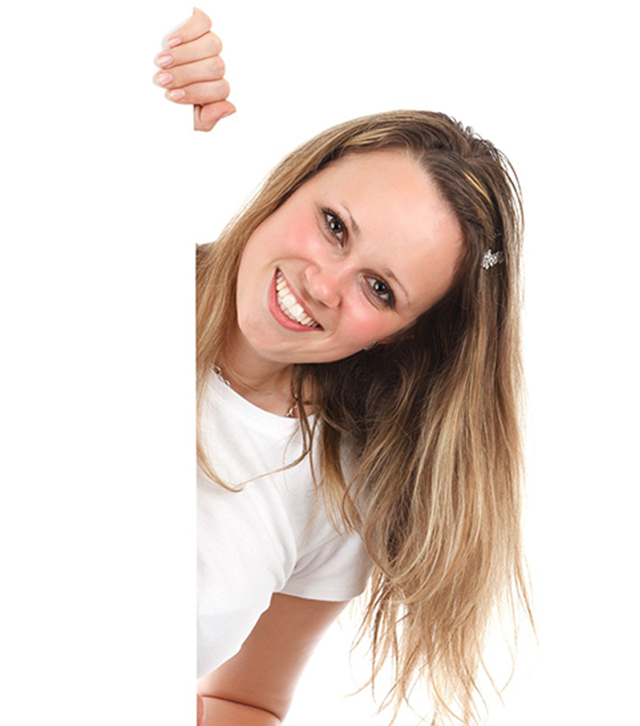
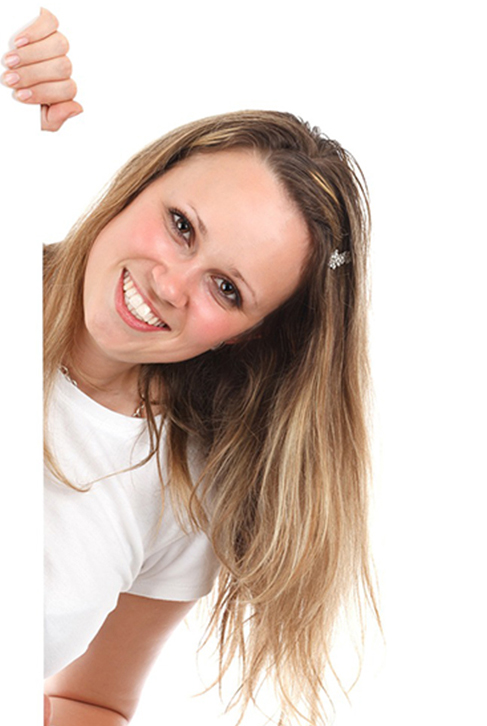
Doing About Page

diff --git a/about.html b/about.html
@@ -121,7 +121,7 @@
                     </div>
 
                     <div class="about-page-img">
-                        <img src="assets/img/about-img/2.jpg" alt="img">
+                        <img src="assets/img/about-img/1.jpg" alt="img">
                     </div>
 
                     <div class="col-12 col-sm-12 col-md-12 about-content-bottom position-relative">
@@ -141,7 +141,33 @@
                 <div class="row">
                     <div class="col-12 col-sm-12 col-md-12">
                         <div class="about-content-up">
-                            <h1>This is our story.</h1>
+                            <p>Lorem ipsum dolor sit amet, consectetur adipisicing elit. Assumenda, culpa dolore est facere inventore.</p>
+                            <p>Lorem ipsum dolor sit amet, consectetur adipisicing elit. Accusantium beatae, dolores explicabo fuga iste minima non odit omnis rem similique? Lorem ipsum dolor sit amet, consectetur adipisicing elit.</p>
+                            <p>Lorem ipsum dolor sit amet, consectetur adipisicing elit. Accusantium beatae, dolores explicabo fuga iste minima non odit omnis rem similique? Lorem ipsum dolor sit amet, consectetur adipisicing elit.</p>
+                        </div>
+                    </div>
+
+                    <div class="about-page-img">
+                        <img src="assets/img/about-img/3.jpg" alt="img">
+                    </div>
+
+                    <div class="col-12 col-sm-12 col-md-12 about-content-bottom position-relative">
+                        <div class="about-content-writer">
+                            <h6>Suraiya Aysha, Web Developer</h6>
+                            <p>consectetur adipisicing elit. Accusantium beatae, dolores explicabo fuga iste minima non odit omnis rem similique.</p>
+                        </div>
+                    </div>
+                </div>
+            </div>
+        </section>
+        <!-- About Story Content End-->
+
+        <!-- About Story Content Start-->
+        <section class="about-area">
+            <div class="container-fluid">
+                <div class="row">
+                    <div class="col-12 col-sm-12 col-md-12">
+                        <div class="about-content-up">
                             <p>Lorem ipsum dolor sit amet, consectetur adipisicing elit. Assumenda, culpa dolore est facere inventore laudantium quibusdam reiciendis rem reprehenderit sit.</p>
                             <p>Lorem ipsum dolor sit amet, consectetur adipisicing elit. Accusantium beatae, dolores explicabo fuga iste minima non odit omnis rem similique? Lorem ipsum dolor sit amet, consectetur adipisicing elit. Assumenda, culpa dolore est facere inventore laudantium quibusdam reiciendis rem reprehenderit sit.</p>
                         </div>
@@ -175,13 +201,14 @@
                     </div>
 
                     <div class="about-page-img">
-                        <img src="assets/img/about-img/2.jpg" alt="img">
+                        <img src="assets/img/about-img/5.jpg" alt="img">
                     </div>
 
                     <div class="col-12 col-sm-12 col-md-12 about-content-bottom position-relative">
                         <div class="about-content-writer">
-                            <h6>Suraiya Aysha, Web Developer</h6>
+                            <p>consectetur adipisicing elit. Accusantium beatae, dolores explicabo fuga iste minima non odit consectetur adipisicing elit. Accusantium beatae, dolores explicabo fuga iste minima non odit omnis rem similique.</p>
                             <p>consectetur adipisicing elit. Accusantium beatae, dolores explicabo fuga iste minima non odit omnis rem similique.</p>
+                            <p><a href="careers.html" class="btn theme-button">Join the team</a></p>
                         </div>
                     </div>
                 </div>

diff --git a/assets/css/style.css b/assets/css/style.css
@@ -1380,19 +1380,33 @@ ul.social-media li a {
     padding-bottom: 0;
 }
 .about-content-up, .about-content-bottom {
-    width: 50%;
+    width: 43%;
     margin: 0 auto;
 }
 .about-page-img img {
-    position: relative;
-    left: -230px;
-    bottom: 0;
+    /*position: relative;*/
+    /*bottom: 0;*/
+    z-index: -1;
+}
+.about-story-main .about-area:nth-child(2n+1) .about-page-img {
+    margin-right: auto;
+}
+.about-story-main .about-area:nth-child(2n) .about-page-img {
+    margin-left: auto;
+}
+.about-story-main .about-area:nth-child(2n+1) .about-content-writer {
+    left: 429px;
+}
+.about-story-main .about-area:nth-child(2n) .about-content-writer {
+    right: 429px;
 }
 .about-content-writer {
     position: absolute;
     width: 26%;
     bottom: 100px;
-    left: 345px;
+}
+.about-content-writer > p > a {
+    margin-top: 15px;
 }
 /*-------------------------------------------
         21. About Style End
